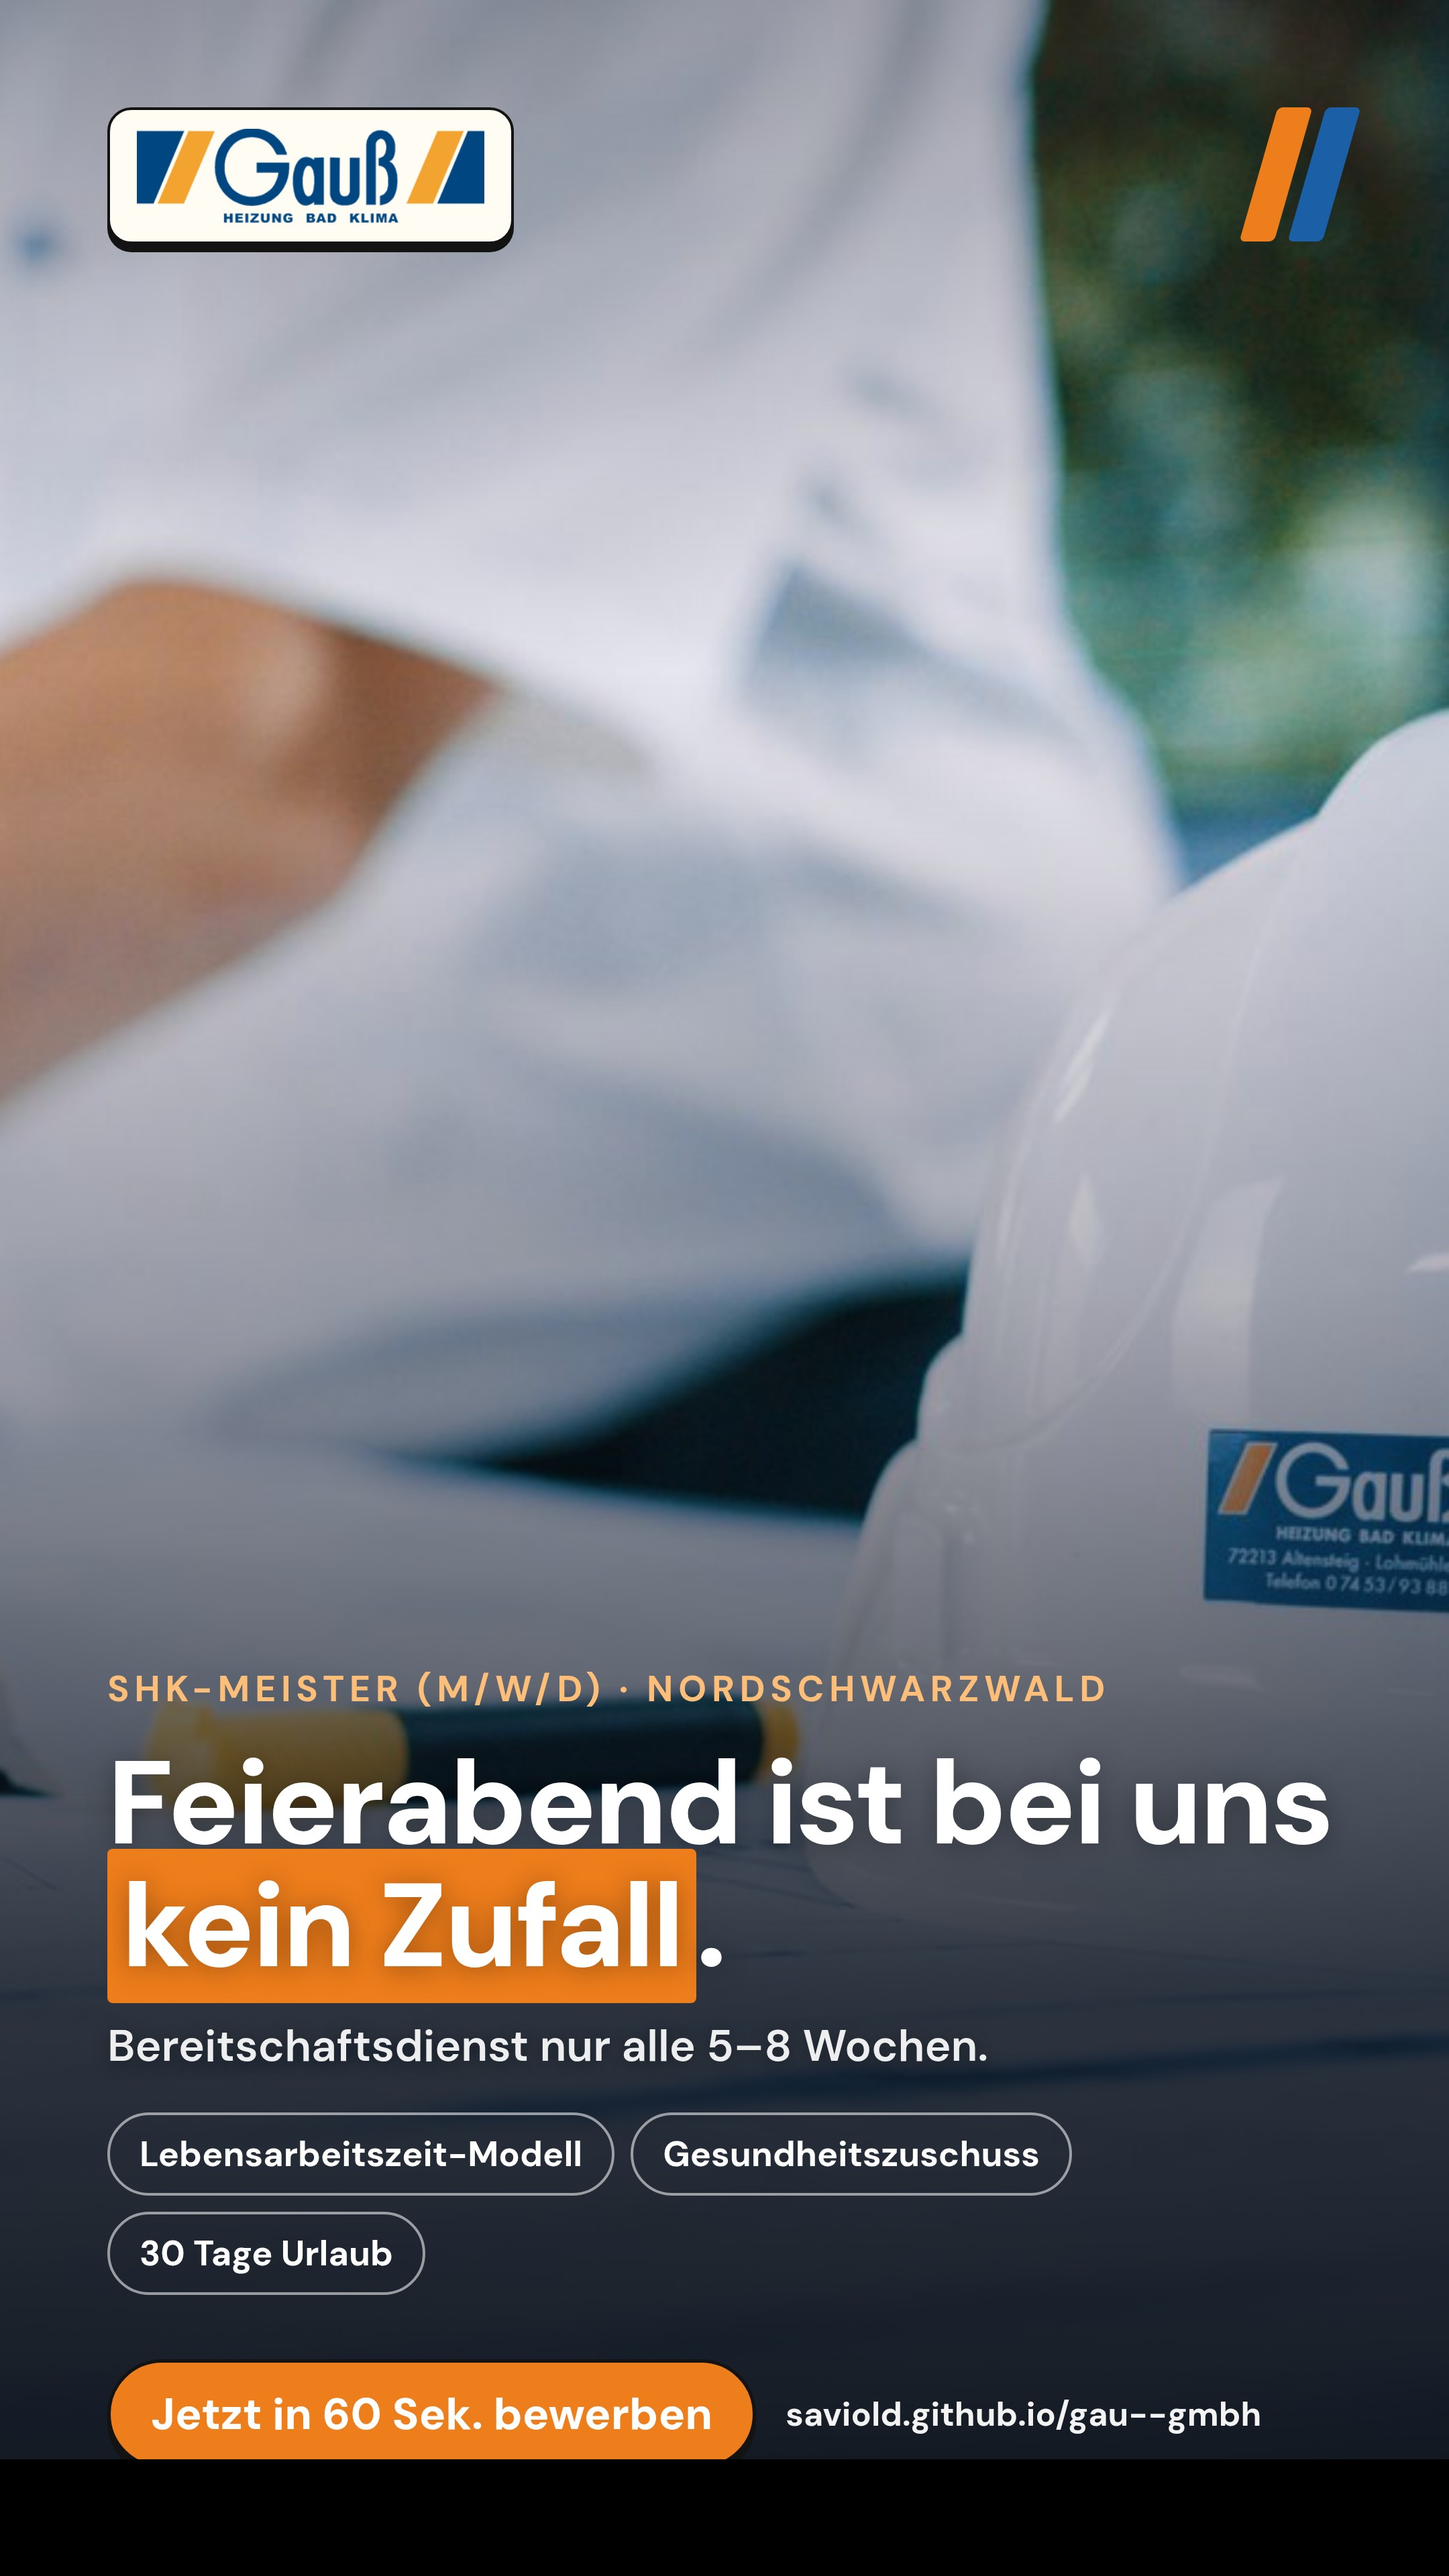
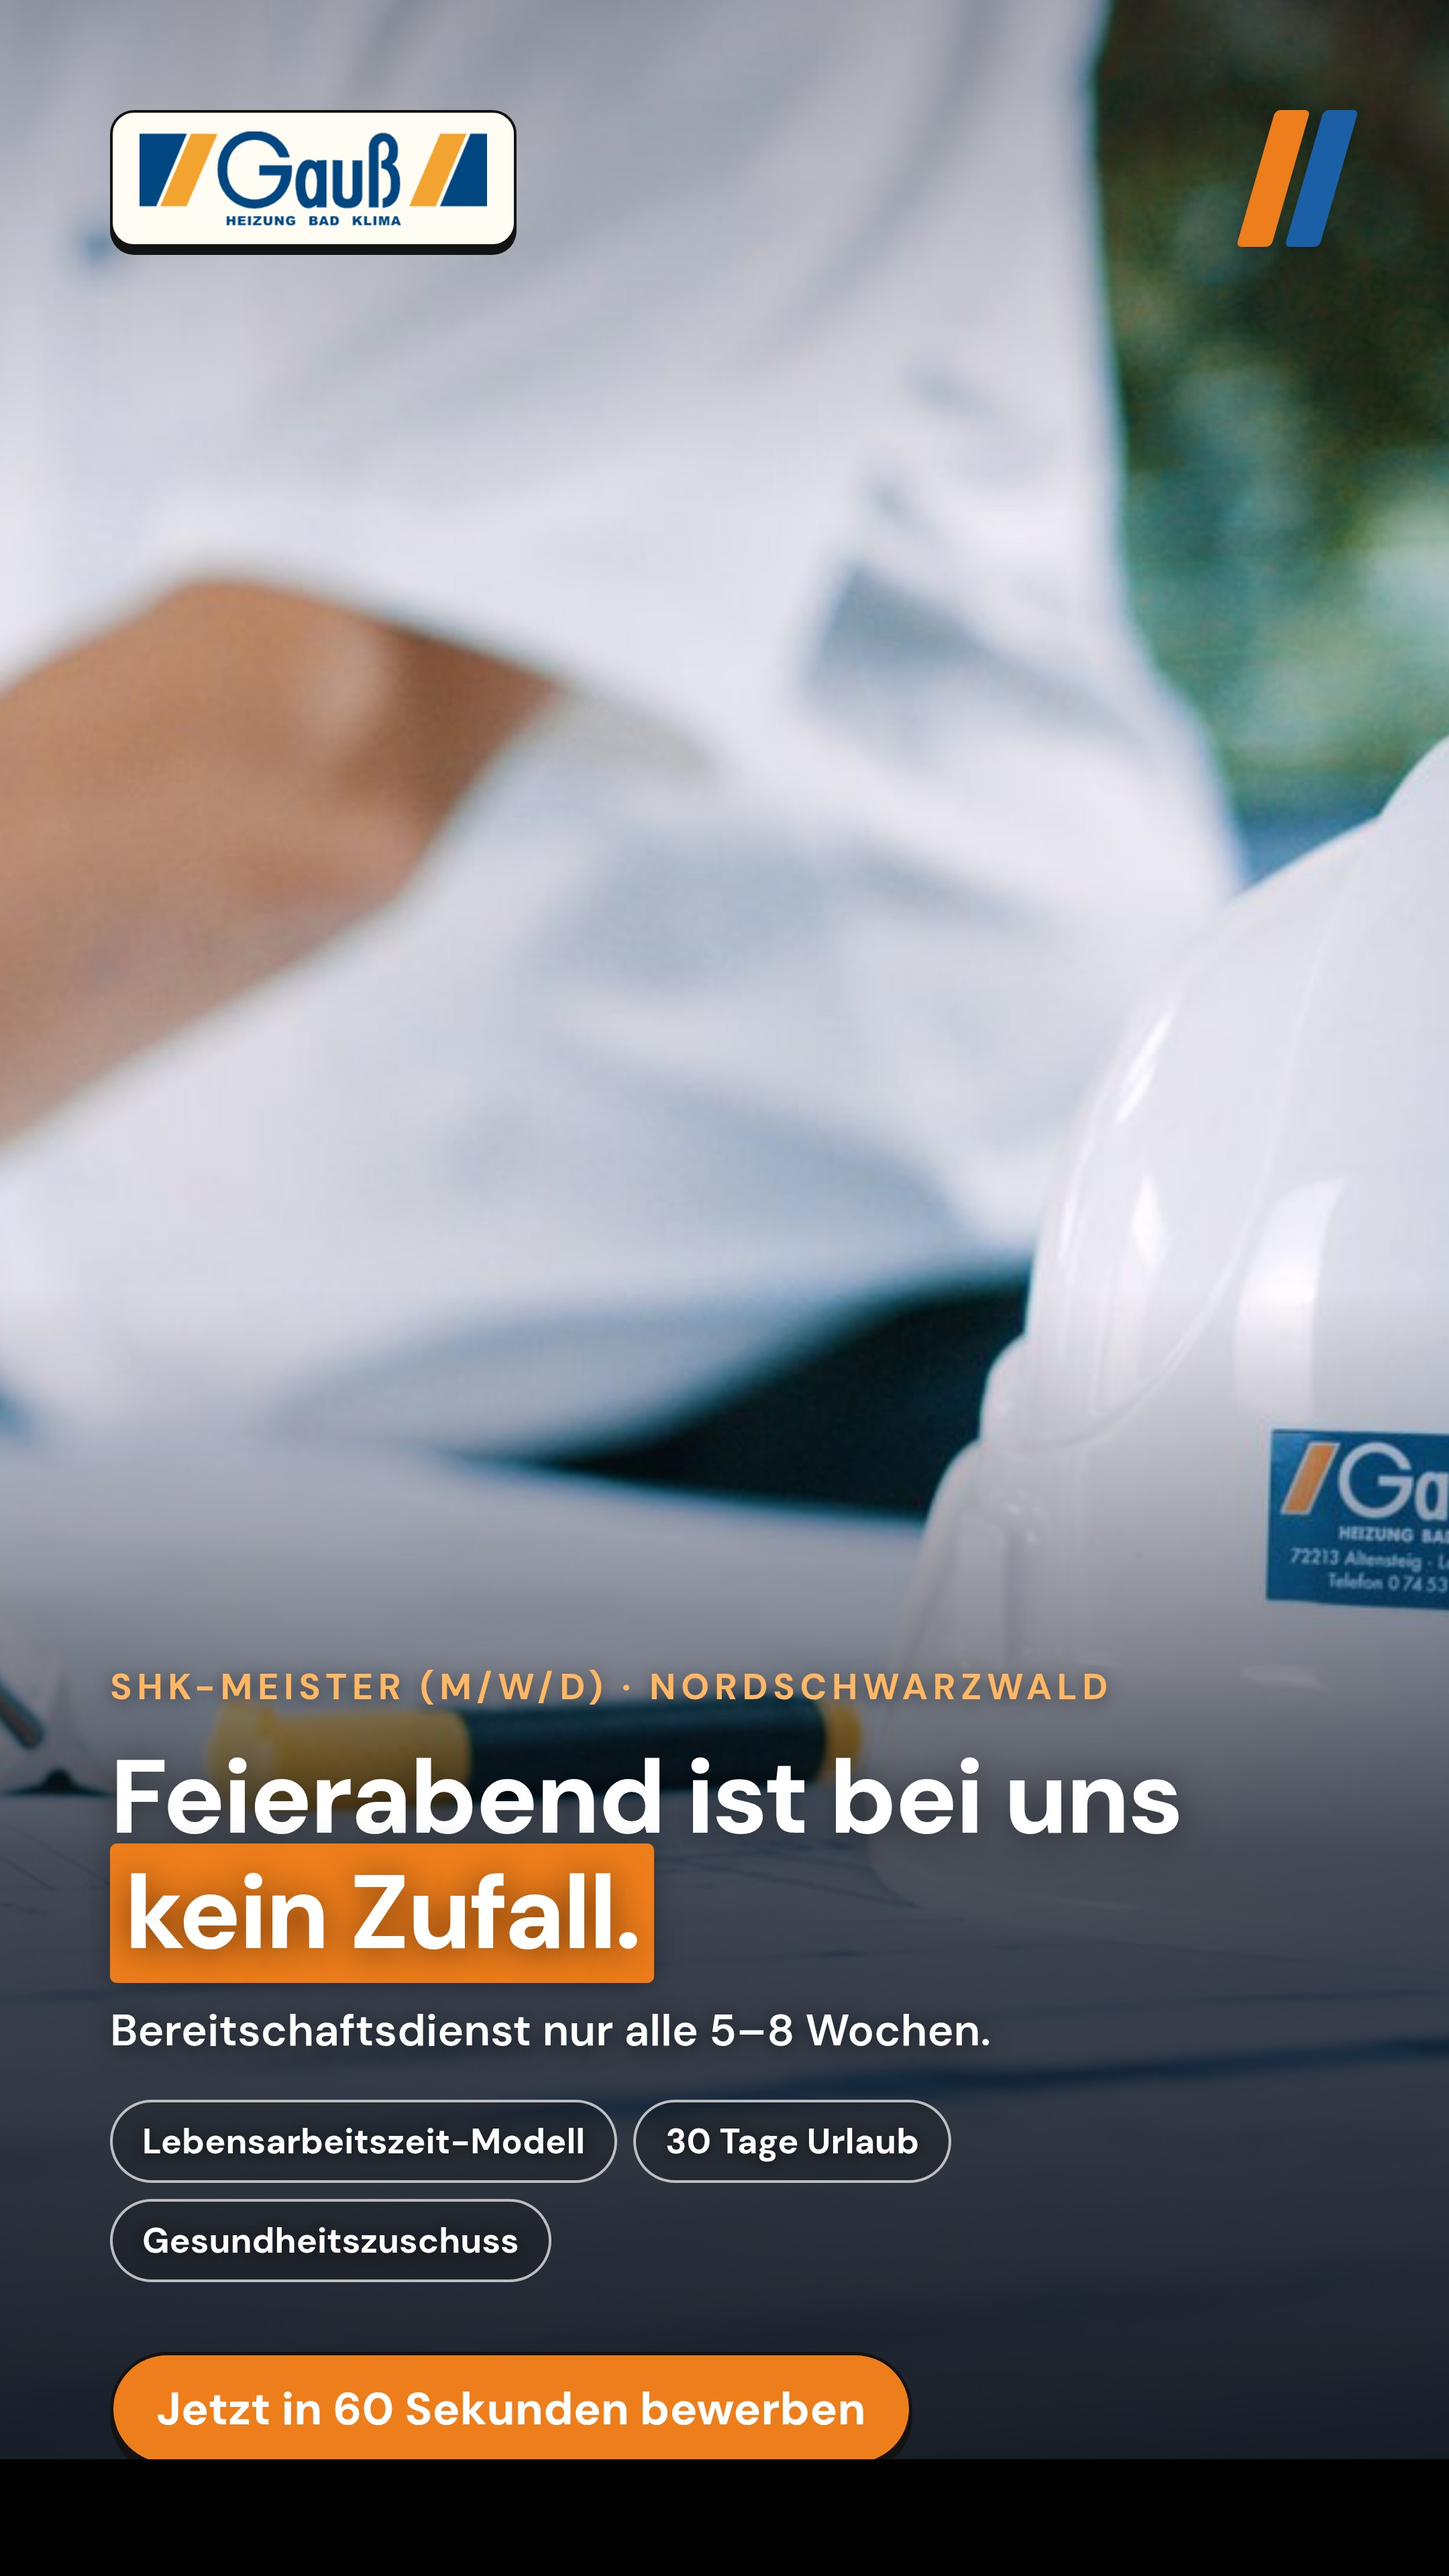
Refine creatives: clean line breaks, remove URL, brighter photos
Claude-Session: https://claude.ai/code/session_01CdVYdczDmkMnotWucW3gGt

diff --git a/creatives/README.md b/creatives/README.md
@@ -1,17 +1,19 @@
 # Ad-Creatives · SHK-Meister (m/w/d) · Gauß GmbH
 
 Drei Konzepte, jeweils als **4:5 (2160×2700)** und **Story 9:16 (2160×3840)**.
-Marke: Gauß-Blau/Orange, Original-Logo, DM Sans. Echte Fotos. Kein „Wir suchen".
+Marke: Gauß-Blau/Orange, Original-Logo, DM Sans. Echte Fotos. Kein „Wir suchen",
+keine URL im Bild (die Funnel-URL kommt in das Link-/Button-Feld der Anzeige).
 
 | Datei | Konzept | Headline | Foto |
 |-------|---------|----------|------|
-| `gauss_shk_A-firmenwagen_*` | Firmenwagen / Identifikation | „Bald steht dein Name auf dem **Firmenwagen**." | Firmensitz + Fahrzeuge |
-| `gauss_shk_B-feierabend_*`  | Work-Life / Benefit | „Feierabend ist bei uns **kein Zufall**." (Bereitschaft nur alle 5–8 Wochen) | Bauhelm auf Plänen |
+| `gauss_shk_A-firmenwagen_*` | Firmenwagen / Identifikation | „Bald steht dein Name auf dem **Firmenwagen.**" | Firmensitz + Fahrzeuge |
+| `gauss_shk_B-feierabend_*`  | Work-Life / Benefit | „Feierabend ist bei uns **kein Zufall.**" | Bauhelm auf Plänen |
 | `gauss_shk_C-waermewende_*` | Sinn / Mission | „Andere reden von der Wärmewende. **Du baust sie ein.**" | Team am Bauplan |
 
 `_4x5` = Feed (Instagram/Facebook), `_9x16` = Story/Reels.
+**Ziel-URL für den Anzeigen-Button:** https://saviold.github.io/gau--gmbh/
 
 ## Passende Caption-Vorschläge (Ad-Text)
-- **A:** Familienbetrieb seit 1965 sucht einen SHK-Meister (m/w/d) im Nordschwarzwald. Eigenes Fahrzeug, Gauß-Rente, unbefristet. Bewirb dich in 60 Sekunden – ohne Anschreiben. 👉 saviold.github.io/gau--gmbh
-- **B:** Bereitschaftsdienst nur alle 5–8 Wochen, Lebensarbeitszeitmodell, 30 Tage Urlaub. Bei Gauß bleibt Feierabend Feierabend. SHK-Meister (m/w/d) gesucht. 👉 saviold.github.io/gau--gmbh
-- **C:** Wärmepumpe, Bad & Klima – bei Gauß übernimmst du ab Tag eins Verantwortung. SHK-Meister (m/w/d), Familienbetrieb seit 1965. 👉 saviold.github.io/gau--gmbh
+- **A:** Familienbetrieb seit 1965 sucht einen SHK-Meister (m/w/d) im Nordschwarzwald. Eigenes Fahrzeug, Gauß-Rente, unbefristet. Bewirb dich in 60 Sekunden – ohne Anschreiben.
+- **B:** Bereitschaftsdienst nur alle 5–8 Wochen, Lebensarbeitszeitmodell, 30 Tage Urlaub. Bei Gauß bleibt Feierabend Feierabend. SHK-Meister (m/w/d) gesucht.
+- **C:** Wärmepumpe, Bad & Klima – bei Gauß übernimmst du ab Tag eins Verantwortung. SHK-Meister (m/w/d), Familienbetrieb seit 1965.
